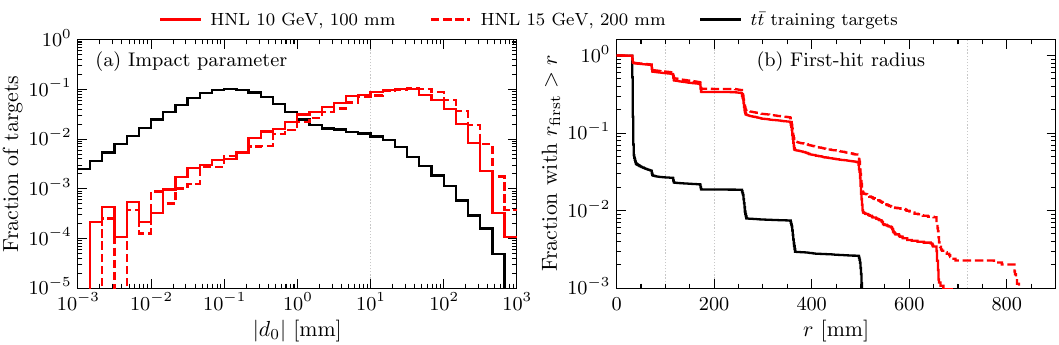
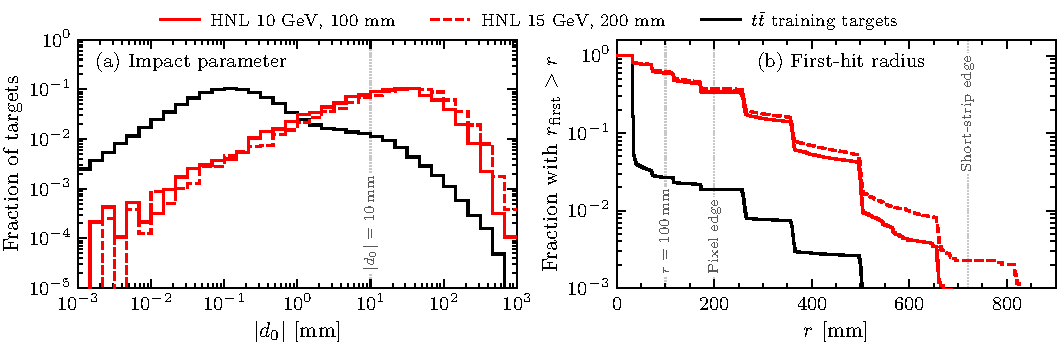
Fig. 5 in five bins per panel, labels on the guide lines of Fig. 2
Adds the efficiencies in the bins of Fig. 5 (results/fig5_rebin_v1.csv),
their paired differences and the drawn points, and replaces the PNG files
of Figs. 2 and 5. README: the bins of Fig. 5 against those of the
preregistration.

diff --git a/README.md b/README.md
@@ -31,8 +31,8 @@ HNL samples. CC is the connected-components track builder, and LM is the builder
 same-layer repulsion, followed by learned merging of track fragments). The standard tracker is acorn (ttbar) with
 CC. The cut rule and the limit on the fake rate are defined in the paper and in `docs/preregistration.md`.
 
-The benchmark has no pileup, a fast detector simulation and a uniform magnetic field. It holds 36 HNL daughters
-with |d0| >= 300 mm in the test sets, and for these the lead of Canto is not established.
+The benchmark has no pileup, a fast detector simulation and a uniform magnetic field. It holds 143 HNL daughters
+with |d0| >= 200 mm in the test sets, and for these the lead of Canto over acorn (HNL) with LM is not established.
 
 ## Layout
 
@@ -158,6 +158,9 @@ The reported analysis and the preregistration differ in these points:
 - The comparisons fixed in advance name CC only. The rows of the tables with CC+walk or LM as the builder of the
   acorn models are not among them, and `results/strong_baselines_v3.csv` marks the working points that were
   evaluated after the freeze on the stored test scores ("post-freeze").
+- Fig. 5 of the paper is drawn in five bins per panel, with a last bin from 200 mm on
+  (`results/fig5_rebin_v1.csv`). These bins are coarser than those of Section 2 of the preregistration, and the edge
+  at |d0| = 200 mm is not among them. `results/test_binned_v1.csv` holds the bins of Section 2.
 - Section 7 of the preregistration states that every final model is evaluated on each test set once. This snapshot
   does not document the uses of the test sets.
 

diff --git a/results/README.md b/results/README.md
@@ -13,7 +13,7 @@ an unedited copy of an output of that analysis.
 | Fig. 2 (displacement of the targets) | the histograms in `sample_truth_v1_hist.csv`, the counts and the quoted fractions in `sample_truth_v1.md` |
 | Fig. 3 (losses of the standard tracker, truncation probe) | the drawn points in `figures/fig03_bars.csv`; the losses and the probe quoted with it in `paper1_headroom_val_v1_losses.csv` and `probe_dense_v1.csv` |
 | Fig. 4 (diagram of the pipeline) | no file here |
-| Fig. 5 (efficiency in the HNL test sets) | the drawn points in `figures/fig08_test_rv_pts.csv`, its bins in `test_binned_v1.md` |
+| Fig. 5 (efficiency in the HNL test sets) | the drawn points in `figures/fig05_rv_d0_rebinned.csv`, read from `fig5_rebin_v1.csv` (five bins per panel; paired differences in `fig5_rebin_v1_differences.csv`). The same efficiencies in the finer bins of `../docs/preregistration.md` are in `test_binned_v1.md` and `figures/fig08_test_rv_pts.csv` |
 
 Other numbers of the text are read from `working_points_v1.json` (the fake-rate limit FR* and the reference cut),
 `ceiling_table2_v1.md` (the graph ceilings), `strong_baselines_v3.csv` (the efficiencies quoted in the abstract) and
